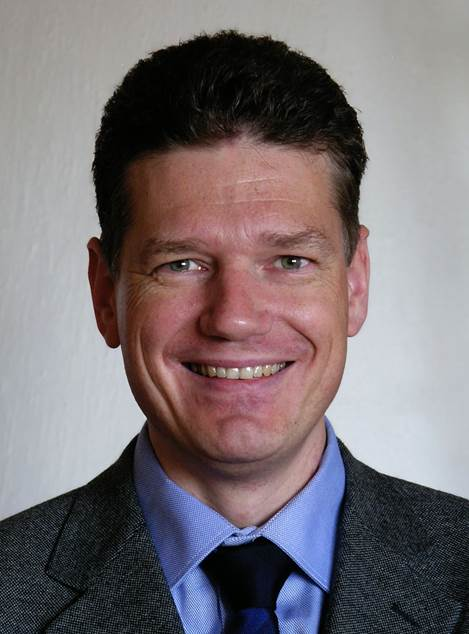
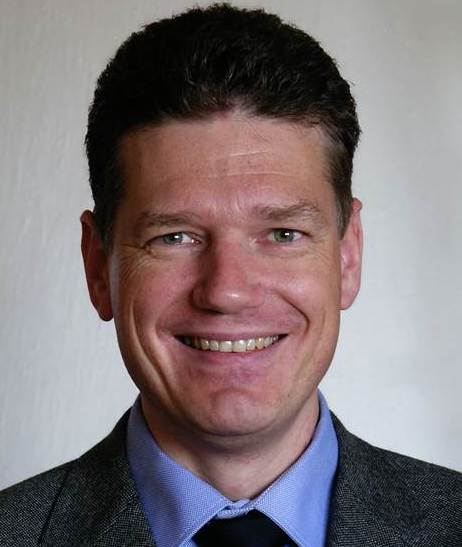
Selina and Sara Added

diff --git a/organization_people.html b/organization_people.html
@@ -139,6 +139,24 @@
                         <div class="col-lg-3 col-md-6 col-sm-6">
                             <div class="single-team mb-30">
                                 <div class="team-img">
+                                    <img src="assets/img/people/members/Selina_demi.jpg" style="max-height: 265px;" alt="">
+                                    <ul class="team-social">
+                                        <li><a href="https://www.hiof.no/iio/itk/english/people/aca/selinad/"><i class="fas fa-globe"></i></a></li>
+                                        <!-- <li><a href="#"><i class="fab fa-facebook-f"></i></a></li>
+                                        <li><a href="#"><i class="fab fa-twitter"></i></a></li> -->
+                                    </ul>
+                                </div>
+                                <div class="team-caption">
+                                    <h3><a href="https://www.hiof.no/iio/itk/english/people/aca/selinad/">Selina Demi</a></h3>
+                                    <p>Ph.D. candidate at University of Oslo, Doctoral research fellow at Østfold University College</p>
+                                    <p>Utilizing blockchain technology to manage and trace requirements throughout the software development lifecycle in distributed environments.</p>
+                                </div>
+                            </div>
+                        </div>
+
+                        <div class="col-lg-3 col-md-6 col-sm-6">
+                            <div class="single-team mb-30">
+                                <div class="team-img">
                                     <img src="assets/img/people/members/thiago_garrett.jpg" style="max-height: 265px;" alt="">
                                     <ul class="team-social">
                                         <li><a href="https://www.mn.uio.no/ifi/english/people/aca/thiagoga/index.html"><i class="fas fa-globe"></i></a></li>
@@ -157,6 +175,24 @@
                         <div class="col-lg-3 col-md-6 col-sm-6">
                             <div class="single-team mb-30">
                                 <div class="team-img">
+                                    <img src="assets/img/people/members/Sara_Mohammadi.jpg" style="max-height: 265px;" alt="">
+                                    <!-- Blog Social -->
+                                    <ul class="team-social">
+                                        <li><a href="https://www.mn.uio.no/ifi/english/people/aca/saramoha/"><i class="fas fa-globe"></i></a></li>
+                                    </ul>
+                                </div>
+                                <div class="team-caption">
+                                    <h3><a href="https://www.mn.uio.no/ifi/english/people/aca/saramoha/">Sara Mohammadi</a></h3>
+                                    <p>Ph.D. Fellow at UiO</p>
+                                    <p>Security issues in local P2P energy trading systems, Attack detection using transparent Machine learning models</p>
+                                </div>
+                            </div>
+                        </div>
+
+
+                        <div class="col-lg-3 col-md-6 col-sm-6">
+                            <div class="single-team mb-30">
+                                <div class="team-img">
                                     <img src="assets/img/people/members/praveen.jpg" style="max-height: 265px;" alt="">
                                     <!-- Blog Social -->
                                     <ul class="team-social">
@@ -170,6 +206,7 @@
                                 </div>
                             </div>
                         </div>
+
                         <div class="col-lg-3 col-md-6 col-sm-6">
                             <div class="single-team mb-30">
                                 <div class="team-img">
@@ -221,7 +258,11 @@
                                     </div>
                                         <!-- Testimonial Content -->
                                     <div class="testimonial-caption text-center">
-                                        <p>Blockchain emerged with bitcoin and mostly in the financial domain. After smart contracts researchers started looking into applications of this new technology in other possible fields. I currently work within SMARTMED research project and am exploring how to exploit blockchain technology and smart contracts to enhance the healthcare sector.</p>
+                                        <p>I research within SMARTMED research project and am exploring how to exploit blockchain technology and Smart Contracts to enhance the healthcare sector.
+                                            Our principal approach in SMARTMED is to facilitate solutions for health registries by using Smart Contracts and the Blockchain Paradigm. From the data safety, authenticity, and nonrepudiation point of view, 
+                                            blockchain is considered a perfect fit for sharing medical records since it provides an easily accessible, immutable, and transparent history of all contract-related data, 
+                                            adequate for building applications with trust, accountability, and transparency.
+                                        </p>
                                         <!-- Rattion -->
                                         <div class="rattiong-caption">
                                             <span>Salar<span> - Ph.D.</span> </span>
@@ -242,6 +283,22 @@
                                         </div>
                                     </div>
                                 </div>
+
+                                <div class="single-testimonial pt-65">
+                                    <!-- Testimonial tittle -->
+                                    <div class="testimonial-icon mb-45">
+                                        <img src="assets/img/people/members/Testimonial/Sara_Mohammadi.jpg" style="max-width: 114px; max-height: 114px;" class="ani-btn " alt="">
+                                    </div>
+                                        <!-- Testimonial Content -->
+                                    <div class="testimonial-caption text-center">
+                                        <p>I am a member of Smart Community Neighborhood - driven by the energy informatics (smartNEM) project whose vision is to exploit state-of-the-art ICT methods, tools, and techniques for future sustainable energy systems. I am working on designing P2P energy trading (sharing) systems in a community neighbourhood, finding their security issues, and providing suitable solutions to maintain the security of those systems by using Machine Learning techniques. My research interests include Machine Learning, Data Mining, Security, Blockchain, Optimization, and Energy Informatics.</p>
+                                        <div class="rattiong-caption">
+                                            <span>Sara<span> - Ph.D.</span> </span>
+                                        </div>
+                                    </div>
+                                </div>
+
+
                                 <div class="single-testimonial pt-65">
                                     <!-- Testimonial tittle -->
                                     <div class="testimonial-icon mb-45">

diff --git a/steering_committee.html b/steering_committee.html
@@ -145,10 +145,10 @@
                                 </div>
                             </div>
                         </div>
-                        <div class="col-lg-3 col-md-6 col-sm-6">
+                        <div class="col-lg-3 col-md-6 col-sm-6" style="align-items: center;">
                             <div class="single-team mb-30">
                                 <div class="team-img">
-                                    <img src="assets/img/people/steering-committee/Geir Horn.jpg" style="max-height: 265px;" alt="">
+                                    <img src="assets/img/people/steering-committee/Geir Horn.jpg" style="max-height: 265px; width: 95%;"  alt="">
                                     <ul class="team-social">
                                         <li><a href="https://www.mn.uio.no/ifi/english/people/adm/geirho/"><i class="fas fa-globe"></i></a></li>
                                     </ul>
